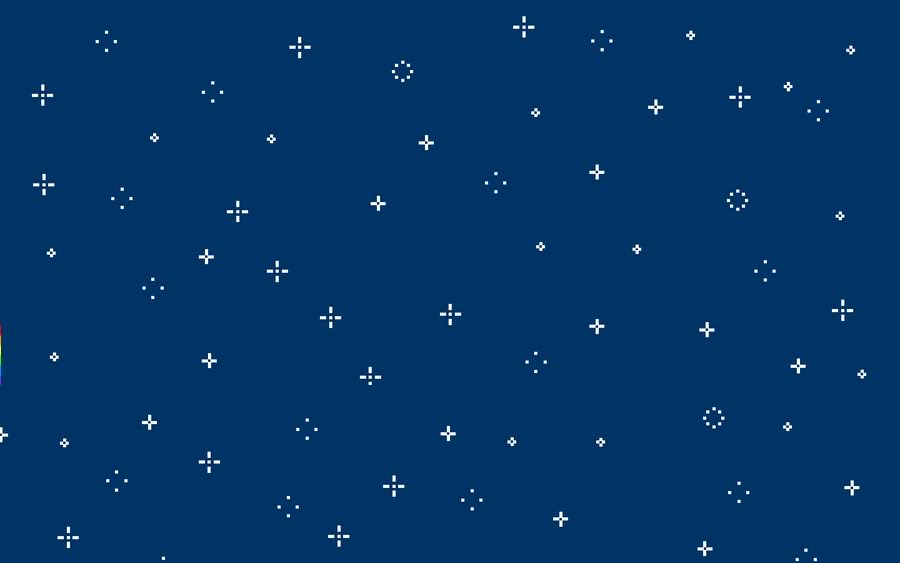
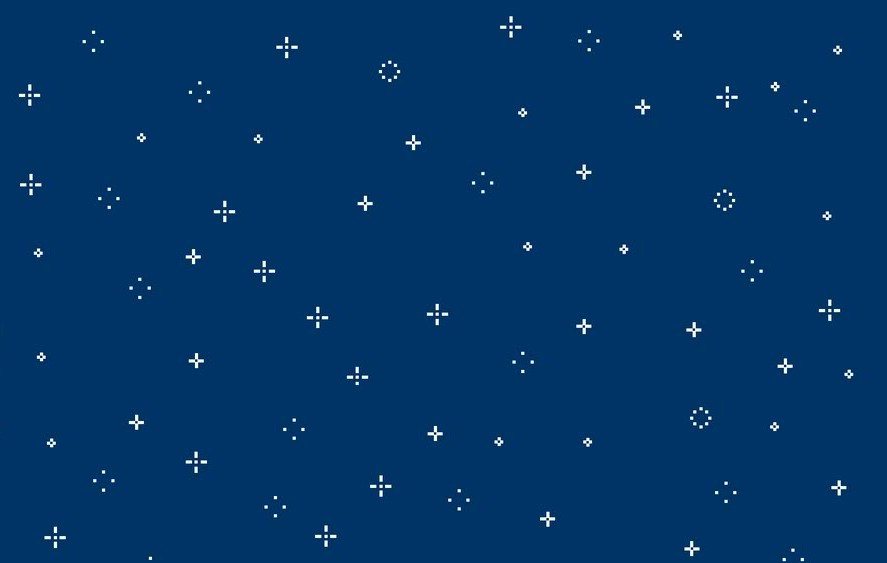
first in mooveit

diff --git a/flying_hero/game.rb b/flying_hero/game.rb
@@ -1,13 +1,16 @@
 require 'gosu'
+require_relative 'background'
 
 class Game < Gosu::Window
 
   def initialize
     super(900, 550, fullscreen: false)
     self.caption = 'Flying hero!'
+    @background = Background.new
   end
 
   def draw
+    @background.draw
   end
 
 def button_down(id)
@@ -15,6 +18,11 @@ def button_down(id)
     close
   end
 end
+
+def update
+  @background.scroll!
+end
+
 
 
 

diff --git a/flying_hero/background.rb b/flying_hero/background.rb
@@ -1,0 +1,29 @@
+require 'gosu'
+class Background
+
+  SCROLL_SPEED = 2
+
+  def initialize
+    @image = Gosu::Image.new('assets/images/background.jpg',tileable: true)
+    @width = @image.width
+    @x = 0
+  end
+
+  def draw
+    @image.draw(@x, 0, 0)
+    @image.draw(@x - @width, 0, 0)
+  end
+
+  def scroll!
+    @x -= SCROLL_SPEED
+    @x %= @width
+  end
+
+
+
+
+
+
+
+
+end
